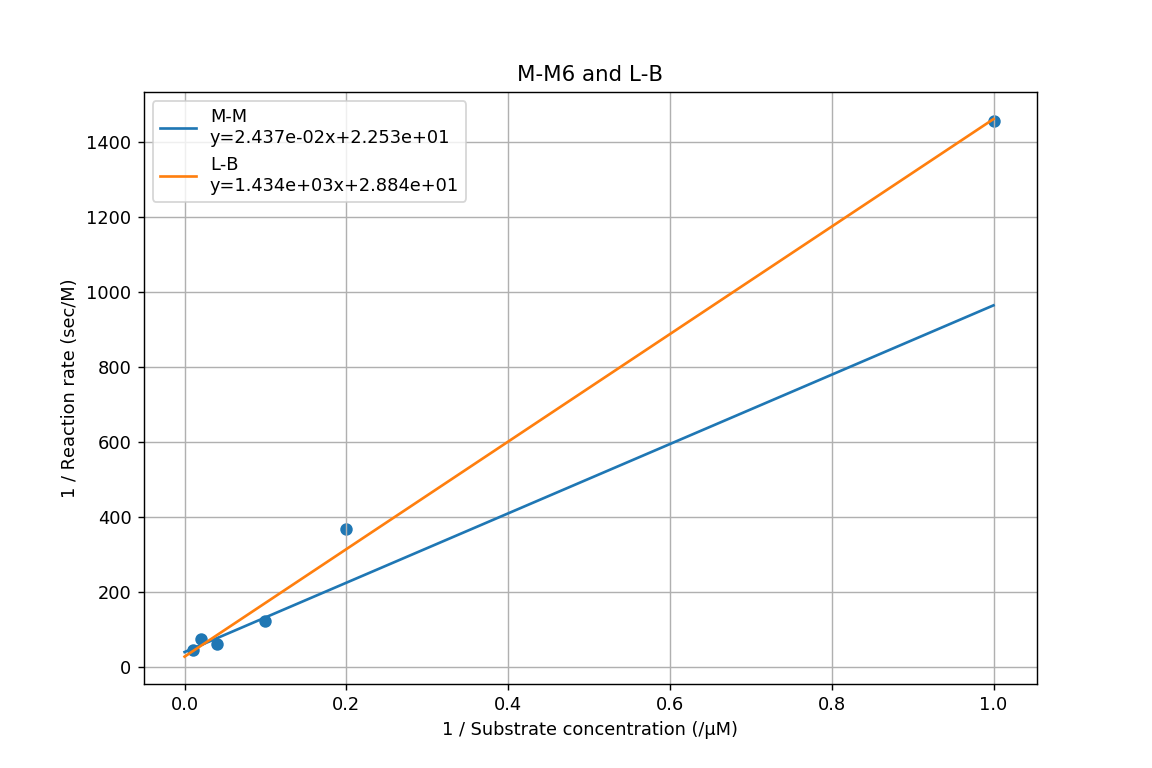
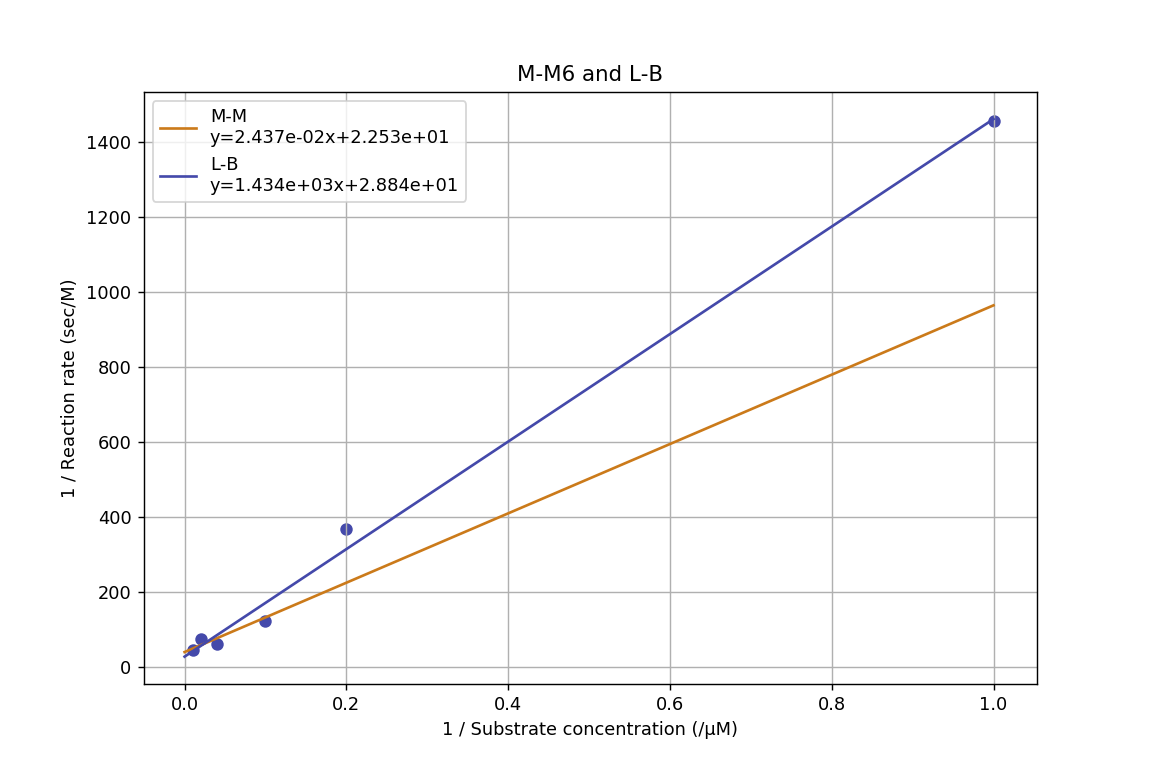
これで月曜日は2秒で帰れます

diff --git a/replace_kaleida.py b/replace_kaleida.py
@@ -46,11 +46,18 @@ def main():
     path = get_file_name()
     data = get_array_from_xlsx(path)
 
+    import os
     import numpy as np
     import matplotlib.pyplot as plt
     import plot_master2 as pm2
     import sys
     import csv
+
+    # 出力に必要なディレクトリがなければ作成する
+    if not os.path.exists('output'):
+        os.makedirs('output')
+    if not os.path.exists('output/day3'):
+        os.makedirs('output/day3')
 
     box = []
     array_s = []
@@ -154,15 +161,17 @@ def main():
     lb.v_max = 1 / lb.b
     lb.k_m = lb.a / lb.b
     lb.calc()
+    lb.rss = 1/lb.rss # とりあえずの策 これだけvの次元が-1乗なのでrssも適当に-1乗しておく
     data_array.append(lb)
 
+    # M-M と L-B の比較
     plt.figure(figsize=(9,6),dpi=128)
     mm2lb_x = np.linspace(0,1,100)
     mm2lb_y = mm6.b/mm6.a * mm2lb_x + 1/mm6.a
-    plt.scatter(lb.x_values,lb.y_values)
-    plt.plot(mm2lb_x,mm2lb_y,label='M-M\ny={:.3e}x+{:.3e}'.format(mm6.a,mm6.b))
+    plt.scatter(lb.x_values,lb.y_values,c='#4449aa')
+    plt.plot(mm2lb_x,mm2lb_y,c='#cb7a1a',label='M-M\ny={:.3e}x+{:.3e}'.format(mm6.a,mm6.b))
     lb_line = lb.a * mm2lb_x + lb.b
-    plt.plot(mm2lb_x,lb_line,label='L-B\ny={:.3e}x+{:.3e}'.format(lb.a,lb.b))
+    plt.plot(mm2lb_x,lb_line,c='#4449aa',label='L-B\ny={:.3e}x+{:.3e}'.format(lb.a,lb.b))
     plt.title('M-M6 and L-B')
     plt.xlabel('1 / Substrate concentration (/μM)')
     plt.ylabel('1 / Reaction rate (sec/M)')

diff --git a/readme.md b/readme.md
@@ -57,3 +57,29 @@ $ python plot_master2.py input/sample.csv
 １行目に「グラフのタイトル」,「x軸のラベル」,「y軸のラベル」,「出力先のファイル名」,「有効数字」をカンマ区切り(tsvの場合はタブ区切り)で入力しておきましょう。
 
 まだまだ未完成な部分もありますが使いたい人はどうぞw
+
+
+# 反応速度の解析を一瞬で終わらせる **replace_kaleida**
+
+月曜日の実験を秒で終わらせるために頑張って作りました。褒めてください。
+
+## 使い方
+
+1. 吸光度を記録したxlsxファイルを用意する。
+
+inputディレクトリに置いてある[テンプレ](https://github.com/utp2018th/plot-graph/blob/master/input/template-day3.xlsx)をコピーして自分が計測した吸光度をペーストし、保存しましょう。このとき、エクセルファイルのセルの背景に色がついている部分はいじらないでください。
+
+2. プログラム実行
+
+ターミナルなどで以下のように実行しましょう。
+
+```
+$ python replace_kaleida.py
+```
+
+これを実行すると、分析するxlsxファイルを選択するウィンドウが表示されるので先ほど用意したxlsxファイルを選択してください。
+
+やることは以上です。`output/day3`フォルダの中に解析結果がぜーんぶ置いてあります。
+反応速度定数などは[compare-k.csv](https://github.com/utp2018th/plot-graph/blob/master/output/day3/compare-k.csv)にあるように、csv形式でエクスポートされます。
+
+以上で2手詰めで月曜日の実習は終了です。よかったですね♡
